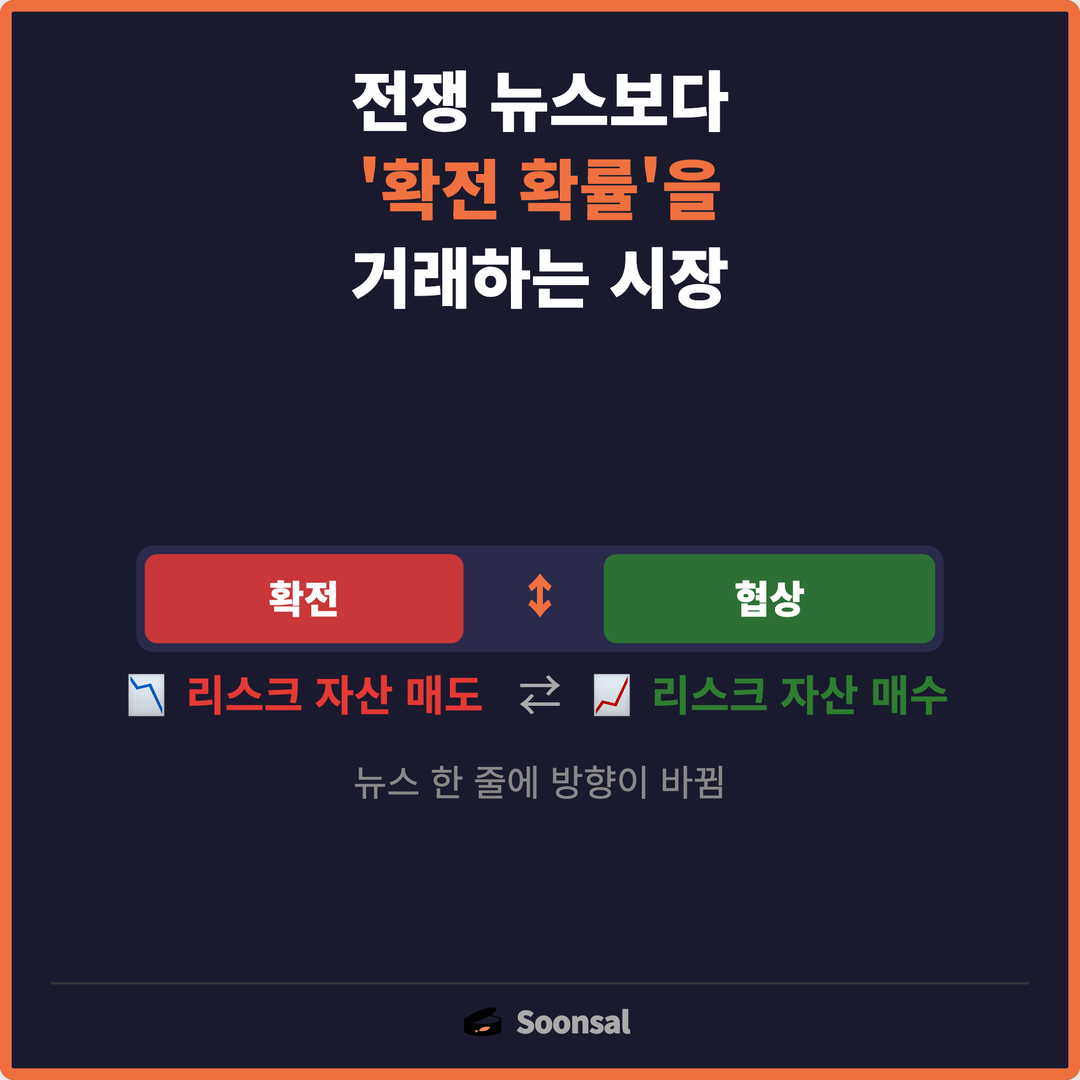
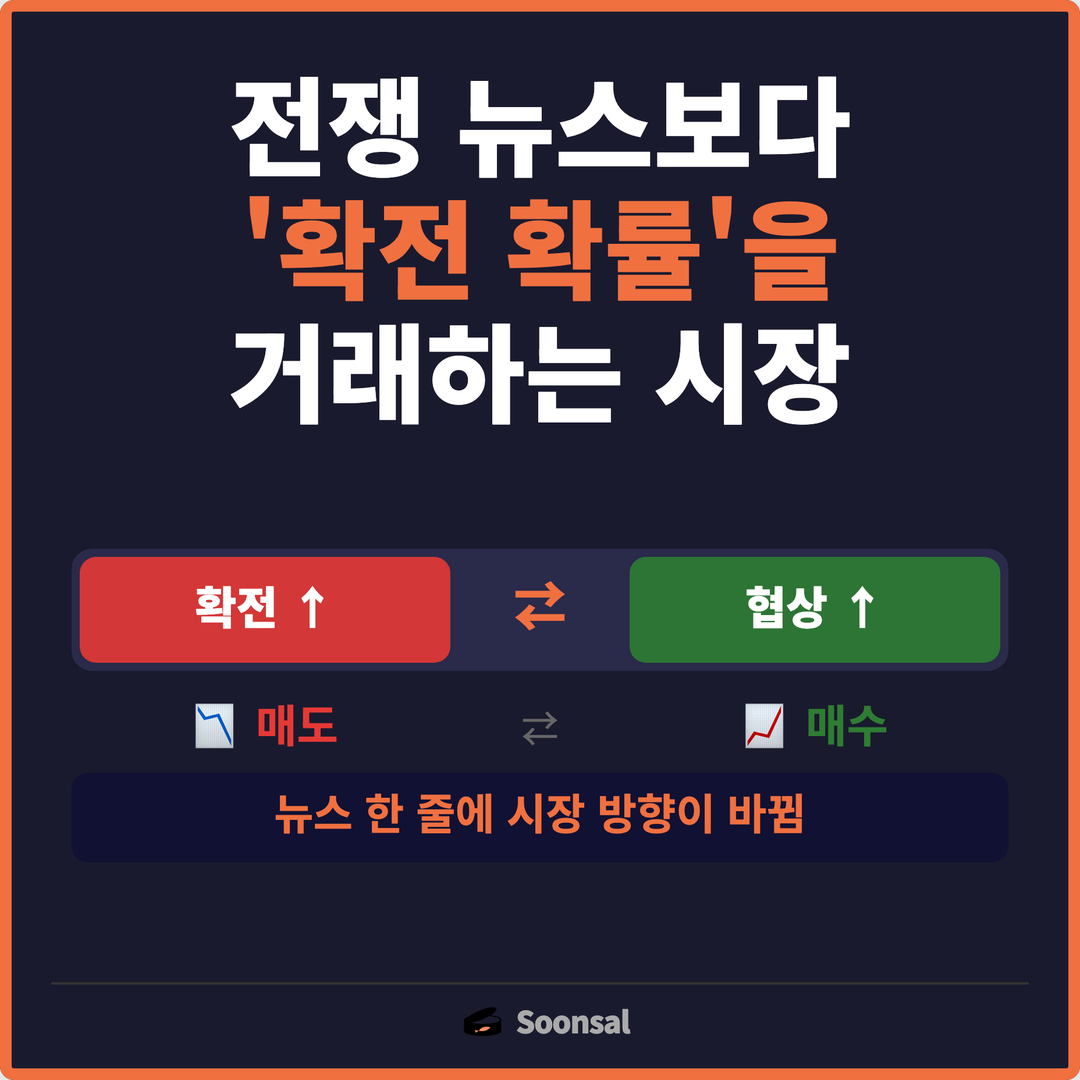
Add 순살카드뉴스 0308

Changed region(s): [[0.2139, 0.0611, 0.7944, 0.3972], [0.0611, 0.4889, 0.9472, 0.7944]]

diff --git a/cardnews/2026/0308.html b/cardnews/2026/0308.html
@@ -40,6 +40,7 @@
     .card { width: 100%; max-width: 540px; height: auto; aspect-ratio: 1/1; padding: 20px 22px 16px; gap: 8px; }
     .top-text { font-size: 28px !important; line-height: 1.35; }
     .top-text.large { font-size: 34px !important; }
+    .top-text.cover-title { font-size: clamp(44px, 9.6vw, 52px) !important; line-height: 1.15; }
     .bottom-text { font-size: 21px !important; line-height: 1.35; }
     .illust svg { max-width: 100%; max-height: 100%; }
     .logo-row { padding-top: 6px; }
@@ -55,27 +56,30 @@
 
 <!-- ===== CARD 1: COVER ===== -->
 <div class="card" style="background:#1a1a2e;">
-  <div class="top-text" style="font-size:46px; font-weight:900; color:#fff; margin-top:4px;">
+  <div class="top-text cover-title" style="font-size:52px; font-weight:900; color:#fff; margin-top:6px; line-height:1.15;">
     전쟁 뉴스보다<br><span style="color:#F07040;">'확전 확률'을</span><br>거래하는 시장
   </div>
   <div class="illust">
-    <svg viewBox="0 0 460 160" xmlns="http://www.w3.org/2000/svg">
-      <!-- probability meter -->
-      <rect x="40" y="30" width="380" height="50" rx="8" fill="#2a2a4a"/>
-      <!-- scale fill: escalation low -->
-      <rect x="44" y="34" width="150" height="42" rx="6" fill="#e53935" opacity="0.85"/>
-      <text x="119" y="62" text-anchor="middle" font-size="18" font-weight="900" fill="#fff" font-family="Noto Sans KR, sans-serif">확전</text>
-      <!-- scale fill: negotiation high -->
-      <rect x="260" y="34" width="156" height="42" rx="6" fill="#2e7d32" opacity="0.85"/>
-      <text x="338" y="62" text-anchor="middle" font-size="18" font-weight="900" fill="#fff" font-family="Noto Sans KR, sans-serif">협상</text>
-      <!-- divider label -->
-      <text x="230" y="62" text-anchor="middle" font-size="22" font-weight="900" fill="#F07040" font-family="Noto Sans KR, sans-serif">↕</text>
-      <!-- bottom labels -->
-      <text x="119" y="108" text-anchor="middle" font-size="20" font-weight="700" fill="#e53935" font-family="Noto Sans KR, sans-serif">📉 리스크 자산 매도</text>
-      <text x="338" y="108" text-anchor="middle" font-size="20" font-weight="700" fill="#2e7d32" font-family="Noto Sans KR, sans-serif">📈 리스크 자산 매수</text>
-      <!-- arrow -->
-      <text x="230" y="108" text-anchor="middle" font-size="20" fill="#aaa" font-family="Noto Sans KR, sans-serif">⇄</text>
-      <text x="230" y="148" text-anchor="middle" font-size="17" fill="#888" font-family="Noto Sans KR, sans-serif">뉴스 한 줄에 방향이 바뀜</text>
+    <svg viewBox="0 0 480 175" xmlns="http://www.w3.org/2000/svg">
+      <!-- probability meter bar -->
+      <rect x="10" y="10" width="460" height="60" rx="10" fill="#2a2a4a"/>
+      <!-- escalation fill -->
+      <rect x="14" y="14" width="182" height="52" rx="8" fill="#e53935" opacity="0.9"/>
+      <text x="105" y="47" text-anchor="middle" font-size="22" font-weight="900" fill="#fff" font-family="Noto Sans KR, sans-serif">확전 ↑</text>
+      <!-- negotiation fill -->
+      <rect x="284" y="14" width="182" height="52" rx="8" fill="#2e7d32" opacity="0.9"/>
+      <text x="375" y="47" text-anchor="middle" font-size="22" font-weight="900" fill="#fff" font-family="Noto Sans KR, sans-serif">협상 ↑</text>
+      <!-- center divider -->
+      <text x="240" y="48" text-anchor="middle" font-size="26" font-weight="900" fill="#F07040" font-family="Noto Sans KR, sans-serif">⇄</text>
+
+      <!-- bottom reaction labels -->
+      <text x="105" y="105" text-anchor="middle" font-size="22" font-weight="700" fill="#e53935" font-family="Noto Sans KR, sans-serif">📉 매도</text>
+      <text x="375" y="105" text-anchor="middle" font-size="22" font-weight="700" fill="#2e7d32" font-family="Noto Sans KR, sans-serif">📈 매수</text>
+      <text x="240" y="105" text-anchor="middle" font-size="18" fill="#666" font-family="Noto Sans KR, sans-serif">⇄</text>
+
+      <!-- subtitle -->
+      <rect x="10" y="120" width="460" height="44" rx="8" fill="#111133"/>
+      <text x="240" y="148" text-anchor="middle" font-size="21" font-weight="700" fill="#F07040" font-family="Noto Sans KR, sans-serif">뉴스 한 줄에 시장 방향이 바뀜</text>
     </svg>
   </div>
   <div class="logo-row" style="border-top:1px solid #333;">
